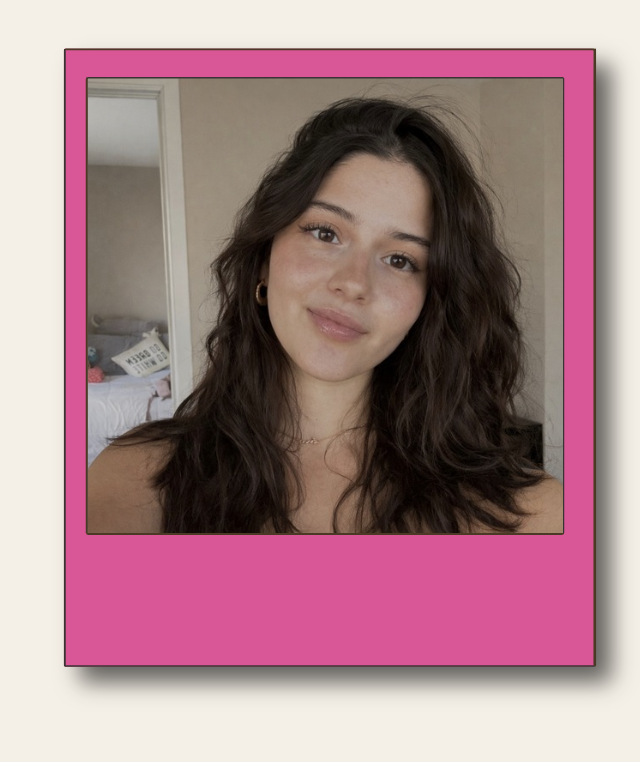
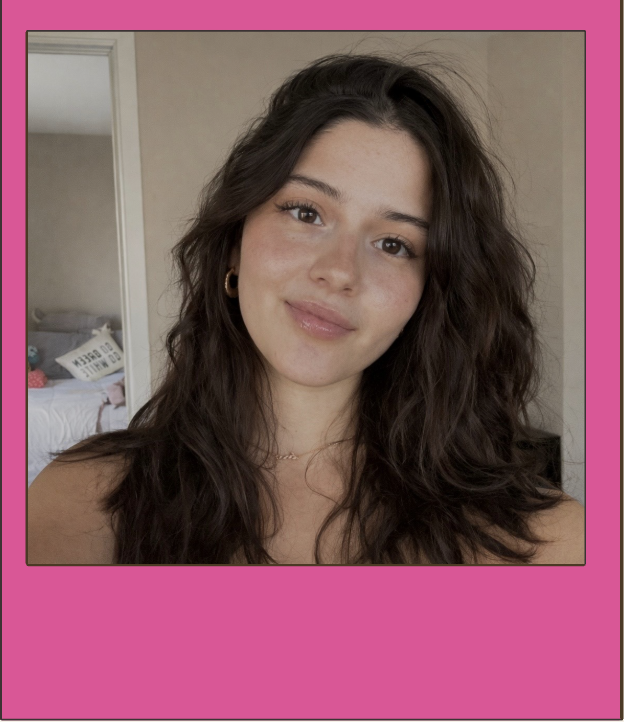
added new images and added them in CSS with selectors

diff --git a/style.css b/style.css
@@ -15,7 +15,7 @@
     --standard-gap: 40px;
     --page-margin: 6rem;
     --radius: 8px;
-    --shadow: 5px 5px 0 var(--color-brown);
+    --shadow: 5px 5px 0 var(--color-orange);
 }
 
 * {
@@ -58,7 +58,6 @@ h3 {
 h4 {
     font-size: 1.25rem;
     margin: 2rem 0 0.5rem;
-    border-bottom: 3px dotted var(--color-pink);
     display: inline-block;
 }
 /* Navigation */
@@ -71,8 +70,12 @@ header {
 header img {
     max-width: 100%;
     height: auto;
+} 
+header {
+    position: relative; 
+    padding: 1.5rem var(--page-margin) 0;
+    text-align: center;
 }
- 
 #menu {
     background: var(--color-yellow);
     border: 3px solid var(--color-brown);
@@ -124,6 +127,55 @@ section {
     border: 3px solid var(--color-brown);
     border-radius: var(--radius);
     box-shadow: var(--shadow);
+}
+
+.polaroids {
+    position: absolute;
+    top: 1.5rem;
+    left: var(--page-margin);
+    width: 18rem;
+    height: 14.25rem;
+}
+
+.polaroid {
+    position: absolute;
+    width: 8.5rem;
+    margin: 0;
+    padding: 0.3rem 0.3rem 1.2rem; 
+    transition: transform 0.2s ease;
+}
+
+
+.polaroid:nth-child(1) {
+    top: 0.90rem;
+    left: 0;
+    transform: rotate(-14deg);
+}
+
+.polaroid:nth-child(2) {
+    top: 0;
+    right: 0;
+    transform: rotate(17deg);
+}
+
+.polaroid:nth-child(3) {
+    top: 5.5rem;
+    left: 6.1rem;
+    transform: rotate(-1deg);
+}
+
+.polaroid:hover {
+    transform: rotate(0deg) scale(1.15);
+    z-index: 2;
+}
+
+@media (max-width: 70rem) {
+    .polaroids {
+        position: relative;
+        top: auto;
+        right: auto;
+        margin: 1.5rem auto 0;
+    }
 }
 
 /* Skills */
@@ -184,7 +236,7 @@ figure {
 figure img {
     border: 4px solid var(--color-brown);
     border-radius: var(--radius);
-    box-shadow: 6px 6px 0 var(--color-pink);
+    box-shadow: 4px 4px 0 var(--color-yellow);
 }
  
 figcaption {
@@ -224,7 +276,7 @@ a:hover {
 /* Footer */
 
 footer {
-    background: var(--color-orange);
+    background: var(--color-pink);
     color: var(--color-bg);
     padding: 2rem var(--page-margin);
     text-align: center;

diff --git a/index.html b/index.html
@@ -14,6 +14,21 @@
   <header id="top"> 
     <a id="logo" href="/"><img src="images/image.png" alt="Natalia's Logo" width="600"></a> 
     
+            <div class="polaroids">
+                <figure class="polaroid">
+                    <img src="images/mininat1.png" alt="photo of me as a child" width="400" height="400">
+                </figure>
+
+                <figure class="polaroid">
+                    <img src="images/mininat2.png" alt="Me now" width="400" height="400">
+
+                </figure>
+                <figure class="polaroid">
+                    <img src="images/nat.png" alt="photo of me as a child" width="400" height="400">
+                    
+                </figure>
+            </div>
+  
     <nav id="menu" class="wayfinder"> 
         <ul>
             <li><a href="#about%20me">About Me</a></li>
